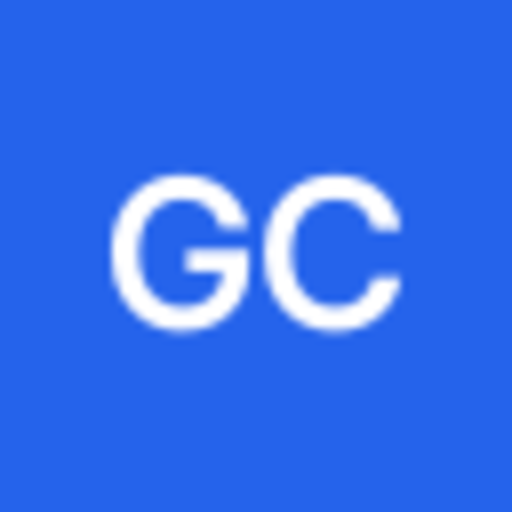
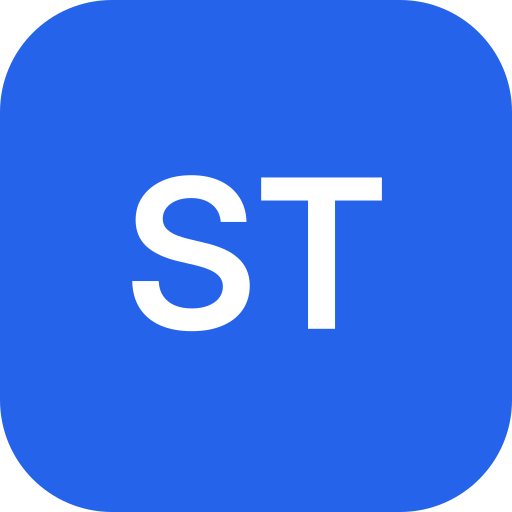
Rename application to Starward Tide (#131)

diff --git a/index.html b/index.html
@@ -7,46 +7,46 @@
 			content="width=device-width, initial-scale=1, viewport-fit=cover"
 		/>
 		<meta name="theme-color" content="#0a101b" />
-		<title>Galaxy Conquest</title>
+		<title>Starward Tide</title>
 		<meta
 			name="description"
-			content="Play the Galaxy Conquest star-map skirmish in your browser."
+			content="Play the Starward Tide star-map skirmish in your browser."
 		/>
 		<meta name="twitter:card" content="player" />
-		<meta name="twitter:title" content="Galaxy Conquest" />
+		<meta name="twitter:title" content="Starward Tide" />
 		<meta
 			name="twitter:description"
 			content="Play the star-map skirmish inside your timeline. Drag to explore, then take every rival world."
 		/>
 		<meta
 			name="twitter:image"
-			content="https://david0178418.github.io/galaxy-conquest/x-card.jpg"
+			content="https://starwardtide.deegeegames.com/x-card.jpg"
 		/>
 		<meta
 			name="twitter:image:alt"
-			content="Galaxy Conquest star map during a skirmish."
+			content="Starward Tide star map during a skirmish."
 		/>
 		<meta
 			name="twitter:player"
-			content="https://david0178418.github.io/galaxy-conquest/"
+			content="https://starwardtide.deegeegames.com/"
 		/>
 		<meta name="twitter:player:width" content="640" />
 		<meta name="twitter:player:height" content="480" />
 		<meta property="og:type" content="website" />
-		<meta property="og:title" content="Galaxy Conquest" />
+		<meta property="og:title" content="Starward Tide" />
 		<meta
 			property="og:description"
 			content="Play the star-map skirmish inside your timeline. Drag to explore, then take every rival world."
 		/>
 		<meta
 			property="og:image"
-			content="https://david0178418.github.io/galaxy-conquest/x-card.jpg"
+			content="https://starwardtide.deegeegames.com/x-card.jpg"
 		/>
 		<meta property="og:image:width" content="1440" />
 		<meta property="og:image:height" content="1000" />
 		<meta
 			property="og:url"
-			content="https://david0178418.github.io/galaxy-conquest/"
+			content="https://starwardtide.deegeegames.com/"
 		/>
 		<link rel="icon" href="./assets/icon.svg" type="image/svg+xml" />
 		<link rel="stylesheet" href="./src/style.css" />
@@ -62,7 +62,7 @@
 				<div class="hero-fleet"><img src="./docs/visual-directions/asset-proof/warship-sprite.png" alt=""/><img src="./docs/visual-directions/asset-proof/warship-sprite.png" alt=""/><img src="./docs/visual-directions/asset-proof/warship-sprite.png" alt=""/></div>
 			</div>
 			<section class="screen title" id="title-screen" aria-labelledby="game-title">
-				<div class="title-wordmark"><h1 id="game-title">GALAXY<span>CONQUEST</span></h1><div class="brand-rule"></div></div>
+				<div class="title-wordmark"><h1 id="game-title">STARWARD<span>TIDE</span></h1><div class="brand-rule"></div></div>
 				<div class="profile-heading"><span id="profile-badge-orb" aria-hidden="true">P</span><span><strong id="profile-badge-name">Loading profiles…</strong><small>Local profile</small></span></div>
 				<nav class="main-menu" aria-label="Main menu" data-focus-group>
 					<button id="continue-conquest" class="menu-choice" disabled hidden>Continue <span aria-hidden="true">›</span></button>
@@ -141,7 +141,7 @@
 			</main>
 			<header class="game-header" aria-label="Game status and actions">
 				<div class="hud status-cluster">
-					<h1 class="game-wordmark">GALAXY<br>CONQUEST</h1>
+					<h1 class="game-wordmark">STARWARD<br>TIDE</h1>
 					<div class="world-score"><span class="eyebrow" id="score-label">WORLDS CONTROLLED</span><div class="scorebar">
 						<span class="blue"><strong id="blue-count">1</strong> You</span>
 						<span class="red"><strong id="red-count">1</strong> Rival holdings</span>
@@ -235,7 +235,7 @@
 			</aside>
 			<section id="field-guide" class="hud" aria-label="Game menu" hidden>
 				<div class="panel-title">
-					<span class="eyebrow">GALAXY CONQUEST / MENU</span
+					<span class="eyebrow">STARWARD TIDE / MENU</span
 					><button id="close-guide" aria-label="Close game menu">×</button>
 				</div>
 				<div class="menu-actions">

diff --git a/src/player-card.test.ts b/src/player-card.test.ts
@@ -2,7 +2,7 @@ import { expect, test } from 'bun:test';
 import { readFileSync } from 'node:fs';
 
 const page = readFileSync(new URL('../index.html', import.meta.url), 'utf8');
-const origin = 'https://david0178418.github.io/galaxy-conquest';
+const origin = 'https://starwardtide.deegeegames.com';
 
 const meta = function (attribute: string, name: string): string {
 	const pattern = new RegExp(
@@ -17,7 +17,7 @@ const meta = function (attribute: string, name: string): string {
 test('published page is an X player card for the live game', function () {
 	expect(page.match(/name="twitter:card"/g)).toHaveLength(1);
 	expect(meta('name', 'twitter:card')).toBe('player');
-	expect(meta('name', 'twitter:title')).toBe('Galaxy Conquest');
+	expect(meta('name', 'twitter:title')).toBe('Starward Tide');
 	expect(meta('name', 'twitter:player')).toBe(`${origin}/`);
 	expect(meta('name', 'twitter:player:width')).toBe('640');
 	expect(meta('name', 'twitter:player:height')).toBe('480');

diff --git a/src/profile-storage.ts b/src/profile-storage.ts
@@ -427,7 +427,7 @@ class IndexedDbProfileDatabase implements ProfileDatabase {
 export const openProfileRepository = async function (): Promise<ProfileRepository> {
 	if (typeof indexedDB === 'undefined')
 		throw new ProfileStorageError(
-			'IndexedDB is unavailable. Open Galaxy Conquest in a regular browser tab to use local profiles.',
+			'IndexedDB is unavailable. Open Starward Tide in a regular browser tab to use local profiles.',
 		);
 	return new ProfileRepository(await IndexedDbProfileDatabase.open());
 };

diff --git a/scripts/build.ts b/scripts/build.ts
@@ -16,8 +16,8 @@ await copyFile('assets/x-card.jpg', 'dist/x-card.jpg');
 // Keep PWA URLs relative so the same build works at a domain root or Pages subpath.
 const manifest = {
 	id: './',
-	name: 'Galaxy Conquest',
-	short_name: 'Galaxy Conquest',
+	name: 'Starward Tide',
+	short_name: 'Starward Tide',
 	description: 'Conquer the star map in a single-player strategy game.',
 	start_url: './',
 	scope: './',

diff --git a/README.md b/README.md
@@ -1,4 +1,4 @@
-# Galaxy Conquest
+# Starward Tide
 
 A touch-first, single-player real-time strategy game. Expand between planets, choose troops, ships, or defense platforms, and conquer the rival. Battles take place within a single star system.
 
@@ -13,9 +13,9 @@ bun run dev
 
 Open http://localhost:3000. `bun run check` runs lint, simulation tests, strict TypeScript checks, and a production build into `dist/`.
 
-GitHub Pages publishes the production build at https://david0178418.github.io/galaxy-conquest/. The [deployment workflow](.github/workflows/deploy.yml) runs checks, builds, and deploys on pushes to `master`; it can also be run manually from the Actions tab on `master`. Repository Settings → Pages must use **GitHub Actions** as the build source. Bundled asset URLs are relative, so the same build works under `/galaxy-conquest/` and at a domain root.
+The repository is [DeeGeeGames/starward-tide](https://github.com/DeeGeeGames/starward-tide). GitHub Pages publishes the production build at https://starwardtide.deegeegames.com/. The [deployment workflow](.github/workflows/deploy.yml) runs checks, builds, and deploys on pushes to `master`; it can also be run manually from the Actions tab on `master`. Repository Settings → Pages must use **GitHub Actions** as the build source. Bundled asset URLs are relative, so the same build works under `/starward-tide/` and at a domain root.
 
-The production build is an installable PWA. Open the standalone HTTPS site and use your browser's **Install app** command; on iPhone/iPad, use Safari's **Share → Add to Home Screen**. It opens in its own window using the existing GC icon. Installation availability depends on the browser; embedded player cards should be opened as the standalone site first.
+The production build is an installable PWA. Open the standalone HTTPS site and use your browser's **Install app** command; on iPhone/iPad, use Safari's **Share → Add to Home Screen**. It opens in its own window using the ST icon. Installation availability depends on the browser; embedded player cards should be opened as the standalone site first.
 
 After the first online visit finishes caching, the game can reopen and play offline, including local profiles and saves. New releases download in the background. When ready, an **Update available — reload** button lets you activate the release and reload that window; finish or save your game first. Other open game windows are not automatically reloaded. Without clicking, updates activate after all game windows/tabs close. Saves remain in IndexedDB and retain the browser/site storage limits described below. Workbox generates the offline cache from build assets; source maps and the social poster are excluded. PWA registration is production-only, so `bun run dev` does not install a worker. Serve `dist/` over localhost or HTTPS to test installation/offline behavior.
 
@@ -33,7 +33,7 @@ Before starting, choose **Relaxed**, **Standard**, or **Hard** opponent difficul
 
 Random chooses one of those styles when the conquest starts. The game menu shows the actual difficulty and style. Saves, Continue, and Restart map retain them; older saves use Standard / Expansionist. The prototype lab's AI toggle remains independent of difficulty and style.
 
-Profiles and conquests use IndexedDB in the current browser and site. They do not sync between devices, browsers, hosting origins, or embedded and standalone versions. Clearing site data or browser storage eviction can remove them. Embedded browsers may block or partition storage; open the standalone game if saves are unavailable. There is no account, cloud backup, or export/import.
+Profiles and conquests use IndexedDB in the current browser and site. The rename preserves the existing database and save format, but the move to `starwardtide.deegeegames.com` changes the browser origin: saves from the former GitHub Pages origin do not transfer automatically. They do not sync between devices, browsers, hosting origins, or embedded and standalone versions. Clearing site data or browser storage eviction can remove them. Embedded browsers may block or partition storage; open the standalone game if saves are unavailable. There is no account, cloud backup, or export/import.
 
 Save validation has format safety bounds independent of gameplay tuning: at most 100,000 troops per planet or cargo units per transport; production-rate values up to 10,000 and production progress below 10,000; map dimensions up to 10,000; unit positions within ±20,000; and planet radii up to 1,000. A save outside those bounds cannot be continued; validation leaves the stored profile data unchanged.
 
